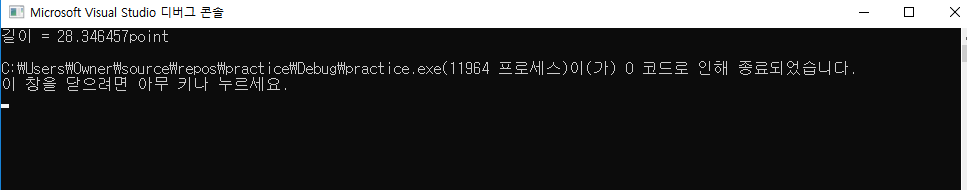
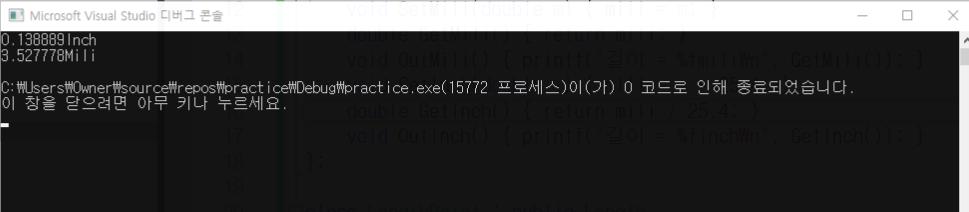
create

diff --git a/C++/Lengthpoint/main.cpp b/C++/Lengthpoint/main.cpp
@@ -2,6 +2,8 @@
 
 void main()
 {
-	LengthPoint Point(10);	// 10 Mili setting
-	Point.OutPoint();
+	LengthPoint Point(10);	// 10 point setting
+
+	Point.OutInch();
+	Point.OutMili();	
 }
